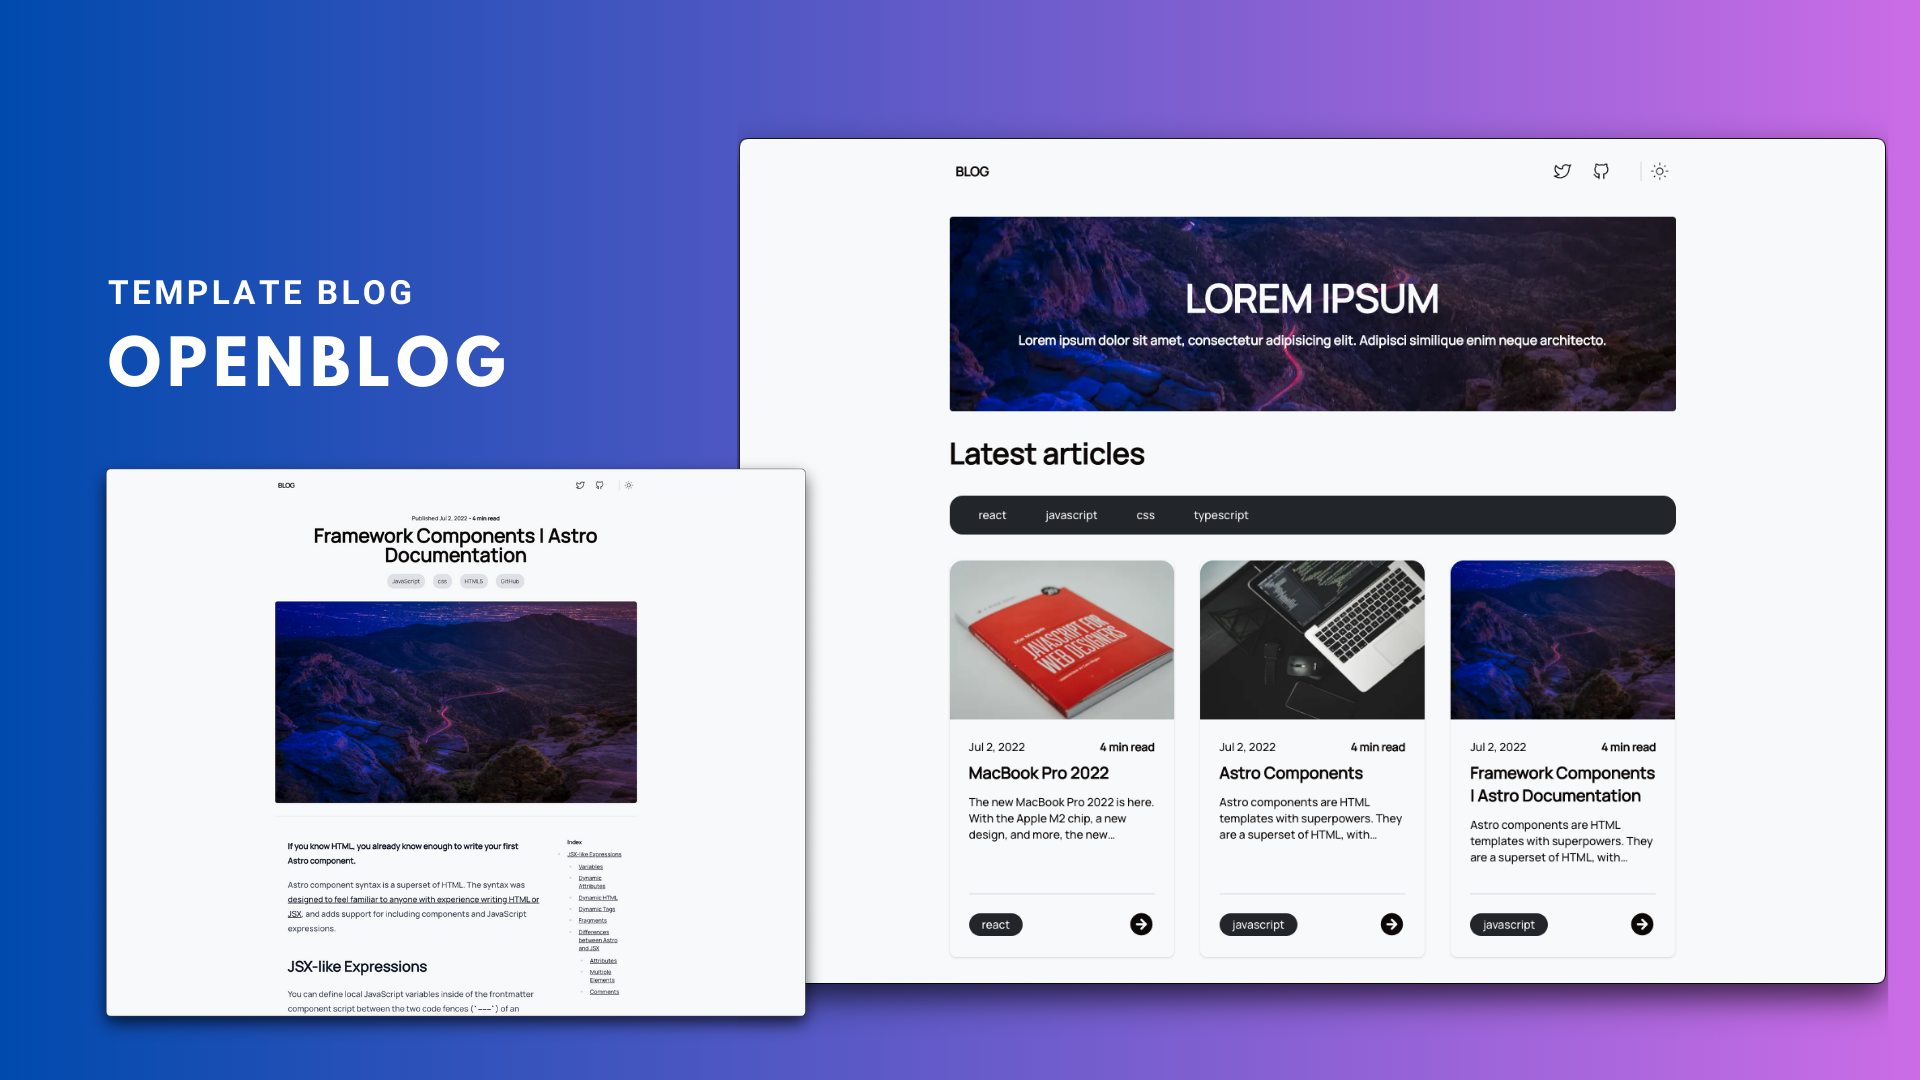
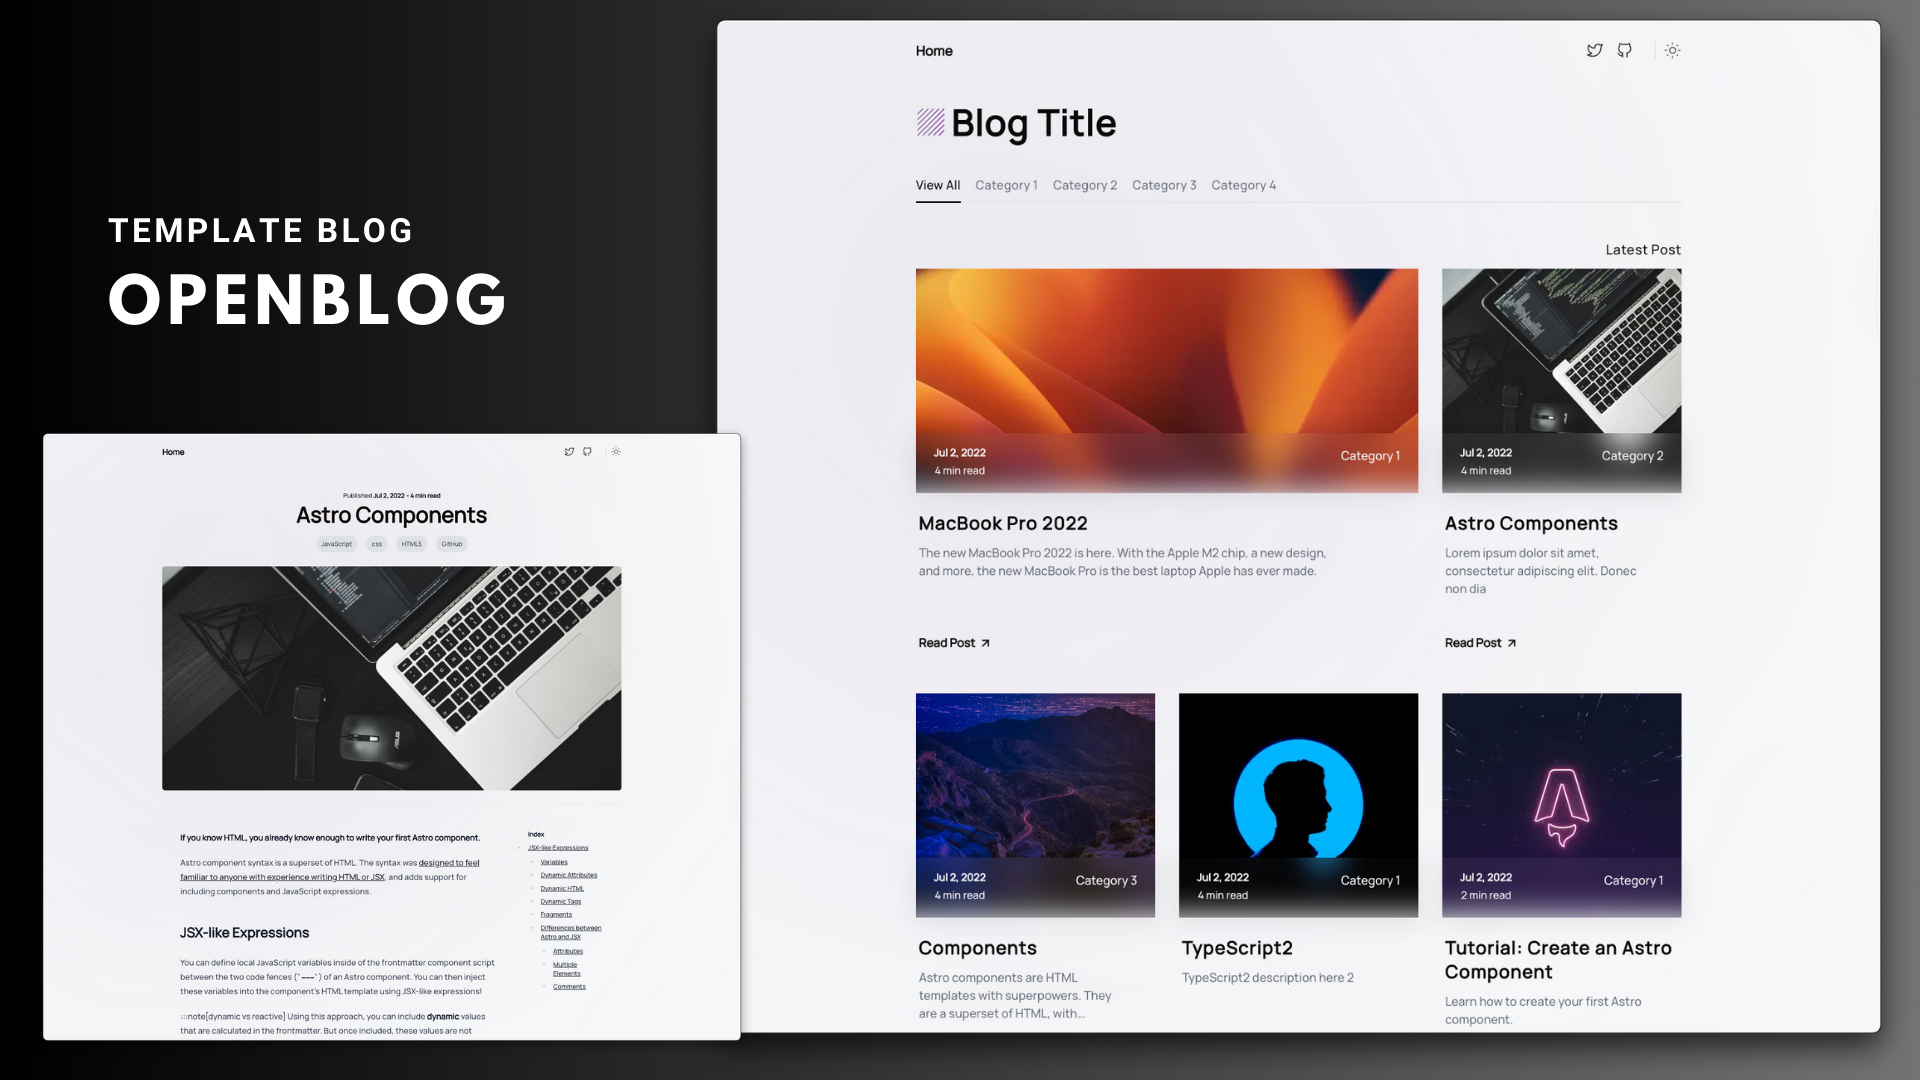
style: redesign

diff --git a/src/styles/global.css b/src/styles/global.css
@@ -1,6 +1,7 @@
 @font-face {
   font-family: Manrope;
-  src: url(../assets/fonts/Manrope-Medium.woff2);
+  src: url(../assets/fonts/Manrope-Light.woff2);
+  src: url(../assets/fonts/Manrope-SemiBold.woff2);
   src: url(../assets/fonts/Manrope-Regular.woff2);
   src: url(../assets/fonts/Manrope-Medium.woff2);
 }
@@ -19,4 +20,90 @@
 
 .animate-moon {
   transform: translateY(20%) rotateZ(50deg);
+}
+
+:root {
+  --background-color: #543fd7;
+  --text-color: #121416d8;
+  --link-color: #543fd7;
+}
+
+html[data-theme='light'] {
+  --background-color: #543fd7;
+  --text-color: #121416d8;
+  --link-color: #543fd7;
+}
+
+html[data-theme='dark'] {
+  --background-color: #212a2e;
+  --text-color: #f7f8f8;
+  --link-color: #828fff;
+}
+
+.glass {
+  background: rgba(255, 255, 255, 0.04);
+  box-shadow: 0 4px 30px rgba(0, 0, 0, 0.1);
+  backdrop-filter: blur(20px);
+  -webkit-backdrop-filter: blur(20px);
+}
+
+@keyframes rotate {
+  0% {
+    transform: rotate(0deg);
+    transform: translate(0%, 0%);
+  }
+  50% {
+    transform: rotate(180deg);
+    transform: translate(-30%, 50%);
+  }
+  100% {
+    transform: rotate(360deg);
+    transform: translate(-50%, 50%);
+  }
+}
+
+.gradient {
+  --size: 500px;
+  --speed: 10s;
+  --easing: cubic-bezier(0.8, 0.2, 0.2, 0.8);
+
+  width: var(--size);
+  height: var(--size);
+  filter: blur(calc(var(--size) / 1.5));
+  background: rgb(113, 64, 163);
+  background: linear-gradient(
+    120deg,
+    rgba(113, 64, 163, 0.2979166666666667) 55%,
+    rgba(55, 37, 73, 1) 100%
+  );
+
+  animation: rotate var(--speed) var(--easing) alternate infinite;
+  border-radius: 30% 70% 70% 30% / 30% 30% 70% 70%;
+
+  position: absolute;
+  inset: 5%;
+
+  overflow: hidden;
+  z-index: -999999;
+}
+
+@media (min-width: 720px) {
+  .gradient {
+    --size: 800px;
+    inset: 25% 0 0 50%;
+    top: 0;
+    left: 0;
+  }
+
+  @keyframes rotate {
+    0% {
+      transform: rotate(0deg);
+    }
+    50% {
+      transform: rotate(180deg);
+    }
+    100% {
+      transform: rotate(360deg);
+    }
+  }
 }

diff --git a/src/data/categories.ts b/src/data/categories.ts
@@ -1,7 +1,7 @@
 export const CATEGORIES = [
-  'javascript',
-  'css',
-  'astro',
-  'typescript',
-  'react',
+  'Category 1',
+  'Category 2',
+  'Category 3',
+  'Category 4',
+  'Category 5',
 ] as const